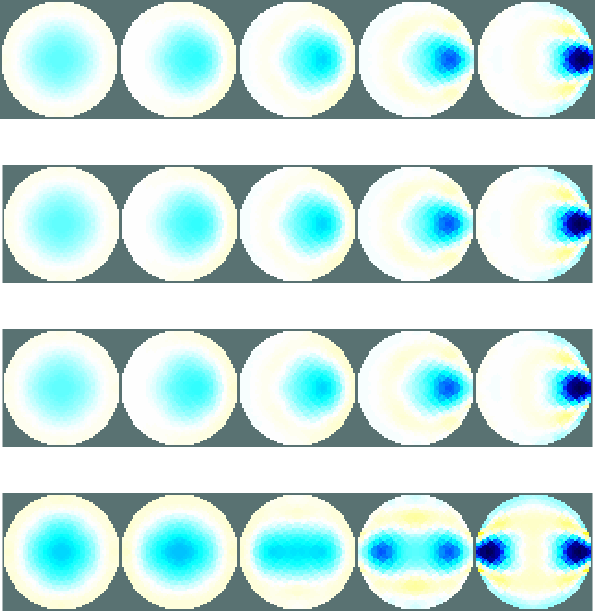
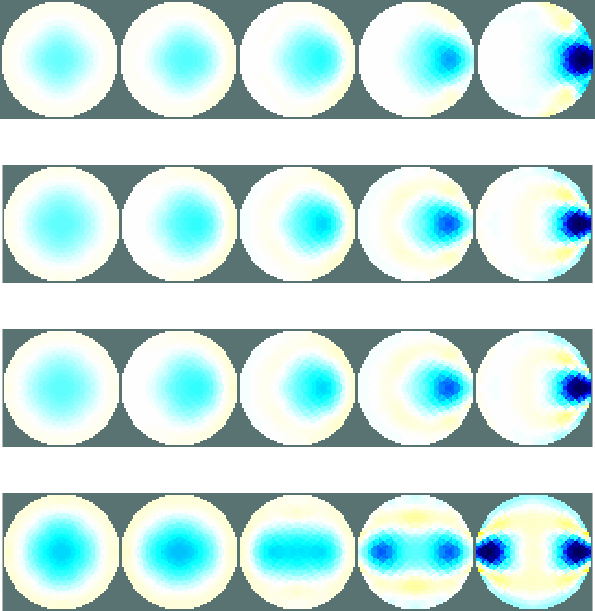
fixed - now simulate ad/ad
git-svn-id: svn+ssh://svn.code.sf.net/p/eidors3d/code/trunk@5310 82006732-fb7e-4a22-9f28-86a212cce563

diff --git a/htdocs/tutorial/strange_effects/opposite_meas01.m b/htdocs/tutorial/strange_effects/opposite_meas01.m
@@ -4,7 +4,7 @@ imdl.fwd_model = rmfield(imdl.fwd_model,'meas_select');
 
 
 % Simulate with AD / AD
-imdl.fwd_model.stimulation = mk_stim_patterns(16,1,'{ad}','{op}',{},1);
+imdl.fwd_model.stimulation = mk_stim_patterns(16,1,'{ad}','{ad}',{},1);
 [vi,vh] = simulate_2d_movement( 5, imdl.fwd_model, [.9,.05], 2);
 imgs= inv_solve(imdl, vh, vi);
 imgs.show_slices.img_cols = 5; imgs.calc_colours.ref_level = 0;
